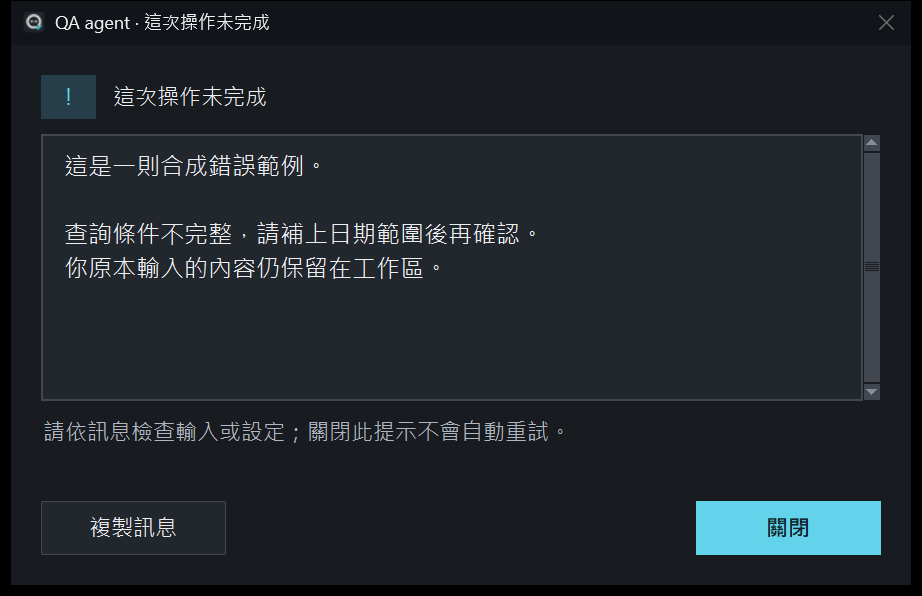
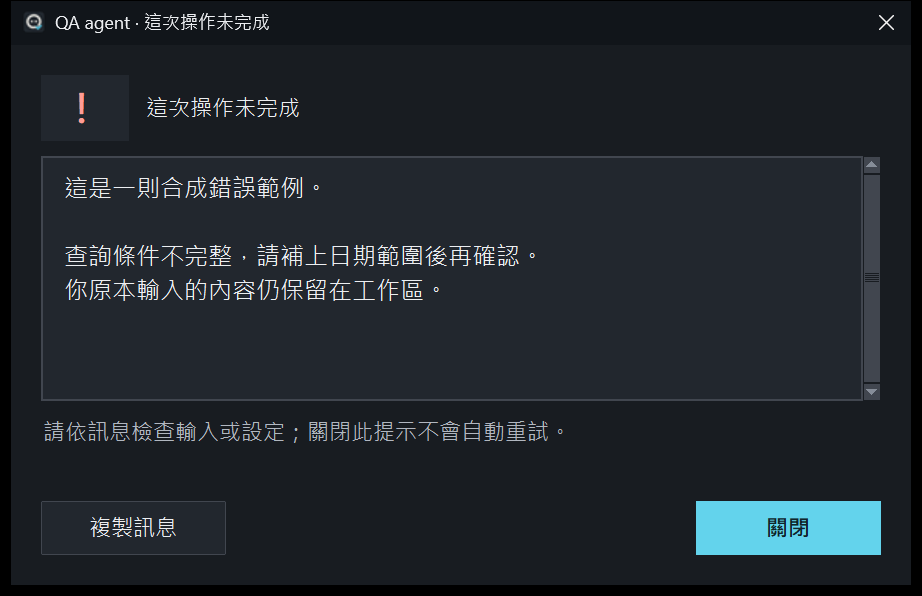
Use severity colors and larger symbols in message dialogs

diff --git a/desktop_app/dialogs.py b/desktop_app/dialogs.py
@@ -3,6 +3,7 @@ import tkinter as tk
 from tkinter import ttk, messagebox as native
 from .branding import apply_child_icons, APP_NAME
 from .display import Display, work_area
+from .theme import FONT
 
 
 class MessageDialog(tk.Toplevel):
@@ -18,7 +19,10 @@ class MessageDialog(tk.Toplevel):
         body=ttk.Frame(self,padding=20);body.pack(fill='both',expand=True)
         heading=ttk.Frame(body);heading.pack(fill='x',pady=(0,10))
         symbol='?' if question else '!' if kind in ('error','warning') else 'i'
-        ttk.Label(heading,text=symbol,style='DialogMark.TLabel',width=3,anchor='center').pack(side='left',padx=(0,10))
+        mark_style='DialogMark.TLabel'
+        if not question and kind in ('error','warning'):
+            mark_style=kind.title()+'.DialogMark.TLabel'
+        ttk.Label(heading,text=symbol,style=mark_style,font=(FONT,20,'bold'),width=3,anchor='center').pack(side='left',padx=(0,10))
         ttk.Label(heading,text=title,style='Section.TLabel',wraplength=440).pack(side='left',fill='x',expand=True)
         buttons=ttk.Frame(body);buttons.pack(side='bottom',fill='x',pady=(14,0))
         self.copy_status=tk.StringVar(value='')

diff --git a/desktop_app/theme.py b/desktop_app/theme.py
@@ -72,6 +72,8 @@ class Appearance:
         s.configure('Title.TLabel',font=(FONT,16,'bold'))
         s.configure('Section.TLabel',font=(FONT,11,'bold'))
         s.configure('DialogMark.TLabel',background=c.TINT,foreground=c.ACCENT,font=(FONT,20,'bold'),padding=6)
+        s.configure('Error.DialogMark.TLabel',background=c.SURFACE,foreground=c.ERROR)
+        s.configure('Warning.DialogMark.TLabel',background=c.SURFACE,foreground=c.WARNING)
         s.configure('Surface.TLabel',background=c.SURFACE)
         s.configure('Empty.TLabel',background=c.SURFACE,foreground=c.MUTED)
         s.configure('Chip.TLabel',background=c.TINT,foreground=c.ACCENT,padding=(10,5),font=(FONT,10,'bold'))

diff --git a/docs/VALIDATION.md b/docs/VALIDATION.md
@@ -4,6 +4,8 @@
 
 ## 本輪回歸
 
+提示符號配色調整後，另外執行 `.venv/Scripts/python.exe -m unittest tests.test_dialogs tests.test_theme -q`，13 項通過。重新檢視真 Tk 深淺錯誤提示截圖，紅色驚嘆號及關閉按鈕可見。此小幅配色調整未重新執行下列完整 304 項測試。
+
 2026-09-27 完整 **304 項測試通過，0 skipped**；命令、直譯器與完整輸出見 [development.json](validation/development.json)。`scripts/verify.py development` 的環境診斷、pip check、鎖檔一致性及完整 unittest 均通過。保留299項基準，新增5項訊息框與原生標題列測試。
 
 真Tk新增涵蓋：長訊息／主題切換、複製、預設取消與Escape、明確批准、巢狀grab恢復、剪貼簿失敗、原生API不支援及啟動fallback。長中文的Tk clipboard_get讀回出現分段編碼問題；以Windows原生CF_UNICODETEXT核對實際內容完整，沒有把讀回失敗直接當通過。

diff --git a/docs/USER-GUIDE.md b/docs/USER-GUIDE.md
@@ -229,6 +229,8 @@ Groq 試用才啟用已驗證的結構化解析；公司模式未接解析能力
 
 以下為 0.11.1 真 Tk 畫面，全使用合成資料。提示框內文字是合成錯誤範例。
 
+錯誤提示使用紅色驚嘆號，警告使用琥珀色驚嘆號；資訊與確認提示使用青藍色符號，同時保留文字說明。
+
 ![深色對話入口](images/workspace-dark.png)
 
 ![淺色對話入口](images/workspace-light.png)
